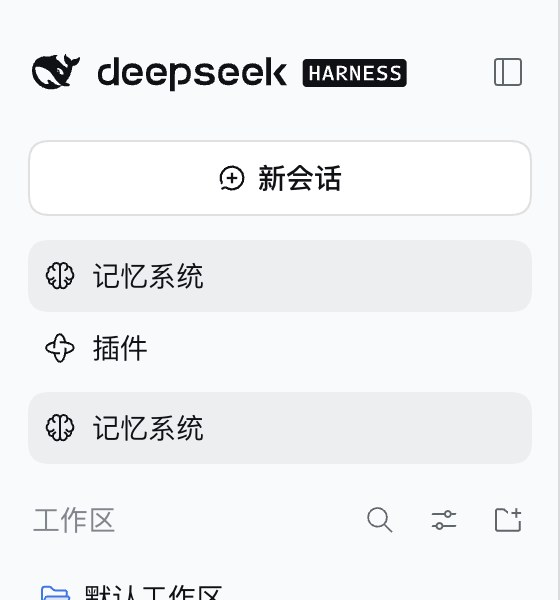
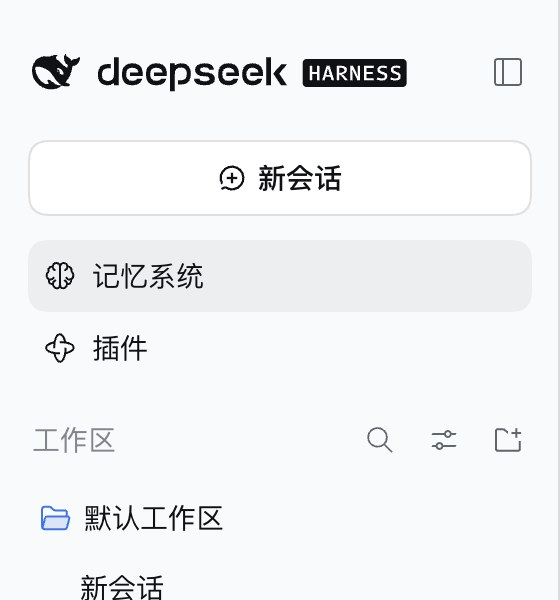
test: show one Memory System entry in the #318 screenshots
The test page offers the native seat, so it also has DSH's own Memory
System row, which never appears beside the fallback entry in real use.
The screenshots now hide that row and show what a fallback layout shows:
the fallback entry under New Session next to DSH's Plugins row. The
measurements still compare against DSH's Memory System row.

diff --git a/docs/pr-assets/issue-318-sidebar-entry/README.md b/docs/pr-assets/issue-318-sidebar-entry/README.md
@@ -13,15 +13,15 @@ Baseline: `dfb3196cbcea58fb9b36b7283ccac4662d366858` (main, as published in 0.5.
 - the shared brain icon at the size the fallback passes (18 on main, 16 with the fix);
 - the placement `placeEntry` uses, directly under New Session.
 
-The values are the browser's computed styles and boxes. In each screenshot the top **记忆系统** row is the fallback; below it are DSH's **插件** and **记忆系统** rows.
+The values are the browser's computed styles and boxes, measured with every row present, so the fallback can be compared with DSH's own Memory System row. The two never appear together in real use: the fallback is removed as soon as the native seat is available. The screenshots therefore hide DSH's Memory System row, so each shows what a fallback layout shows: the fallback **记忆系统** entry under New Session and DSH's **插件** row.
 
 ## Before and after
 
 | | Main | Fix |
 |---|---|---|
 | Expanded | ![The fallback row is smaller, grey and indented](./before-expanded.jpg) | ![The fallback row matches the native rows](./after-expanded.jpg) |
-| Open | ![The open fallback row is bold on a darker background](./before-open.jpg) | ![The open fallback row matches the selected native row](./after-open.jpg) |
-| Collapsed | ![A circle with a larger icon](./before-collapsed.jpg) | ![The same rounded square as the native rows](./after-collapsed.jpg) |
+| Open | ![The open fallback row is bold on a darker background](./before-open.jpg) | ![The open fallback row uses DSH's selected-row background](./after-open.jpg) |
+| Collapsed | ![A circle with a larger icon](./before-collapsed.jpg) | ![The same rounded square as DSH's rail rows](./after-collapsed.jpg) |
 
 | Expanded row | DSH Plugins row | Fallback on main | Fallback with the fix |
 |---|---|---|---|

diff --git a/docs/pr-assets/issue-318-sidebar-entry/README.zh-CN.md b/docs/pr-assets/issue-318-sidebar-entry/README.zh-CN.md
@@ -13,15 +13,15 @@
 - 使用共用的大脑图标，尺寸取兜底逻辑传入的值（main 为 18，修复后为 16）；
 - 按 `placeEntry` 的位置插入到“新建会话”正下方。
 
-数值取自浏览器的计算样式与元素边框。每张截图中最上方的**记忆系统**是兜底入口，其下是 DSH 的**插件**与**记忆系统**行。
+数值取自浏览器的计算样式与元素边框，测量时所有行都在页面上，以便与 DSH 自身的记忆系统行比较。实际使用中二者不会同时出现：一旦原生席位可用，兜底入口就会被移除。因此截图隐藏了 DSH 的记忆系统行，每张都呈现兜底布局中的样子：“新建会话”下方的兜底**记忆系统**入口，以及 DSH 的**插件**行。
 
 ## 修复前后
 
 | | main | 修复后 |
 |---|---|---|
 | 展开 | ![兜底行字更小、偏灰且缩进](./before-expanded.jpg) | ![兜底行与原生行一致](./after-expanded.jpg) |
-| 打开 | ![打开时加粗且背景更深](./before-open.jpg) | ![打开时与选中的原生行一致](./after-open.jpg) |
-| 折叠 | ![圆形且图标更大](./before-collapsed.jpg) | ![与原生行相同的圆角方形](./after-collapsed.jpg) |
+| 打开 | ![打开时加粗且背景更深](./before-open.jpg) | ![打开时使用 DSH 选中行的背景](./after-open.jpg) |
+| 折叠 | ![圆形且图标更大](./before-collapsed.jpg) | ![与 DSH 折叠行相同的圆角方形](./after-collapsed.jpg) |
 
 | 展开状态 | DSH“插件”行 | main 的兜底入口 | 修复后的兜底入口 |
 |---|---|---|---|
